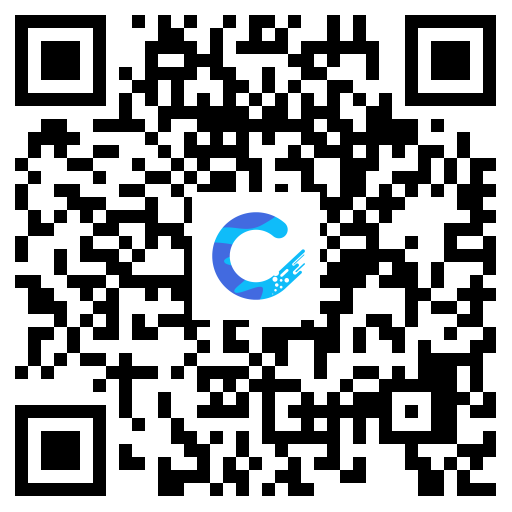
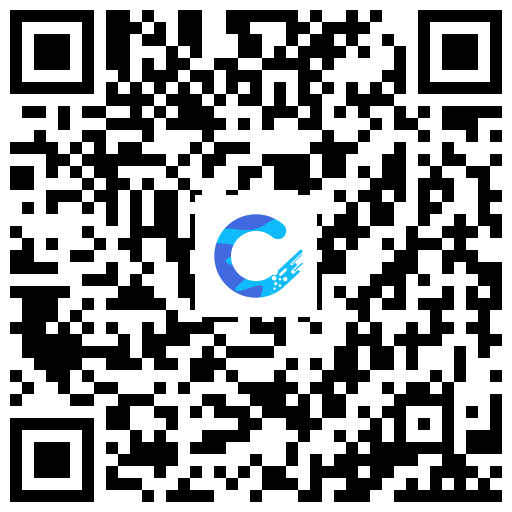
add detailed specification

diff --git a/src/main/kotlin/com/cyan0fbcf9/simpleqrgenerator/services/QRCodeService.kt b/src/main/kotlin/com/cyan0fbcf9/simpleqrgenerator/services/QRCodeService.kt
@@ -28,15 +28,15 @@ class QRCodeService(private val size: Int = 512) {
                     size,
                     mapOf<EncodeHintType, Any>(
                         EncodeHintType.MARGIN to 0,
-                            EncodeHintType.ERROR_CORRECTION to ErrorCorrectionLevel.H,
-                            EncodeHintType.QR_VERSION to 5
+                            EncodeHintType.ERROR_CORRECTION to ErrorCorrectionLevel.Q,
+                            EncodeHintType.QR_VERSION to 6
                     ))
         } catch (e: WriterException) {
             println("[app error] ${e.message}")
             return null
         }
         val qrBufferedImage = MatrixToImageWriter.toBufferedImage(qrBitmap).duplicateChangedType(BufferedImage.TYPE_3BYTE_BGR).apply {
-            val resizedImage = (image as? BufferedImage)?.duplicateResizedImage(floor(size * 0.25).toInt(), floor(size * 0.25).toInt())
+            val resizedImage = (image as? BufferedImage)?.duplicateResizedImage(floor(size * 0.24).toInt(), floor(size * 0.24).toInt())
             if (resizedImage != null)
                 combine(resizedImage)
         }

diff --git a/README.md b/README.md
@@ -36,3 +36,15 @@ Have displaying an image to center on QR code.
 **Generated QR Code**  
 *Sample*  
 <img src="./src/main/resources/static/samples/generate.png" alt="sample" width=256 />
+
+## Detailed QR Code Specification
+### QR Version
+version **6**
+
+### Error Correction Level
+**Q**  ( about 25 % )
+
+
+### How much ?
+alphanumeric character : *108* words  
+numeric only : *178* words  
